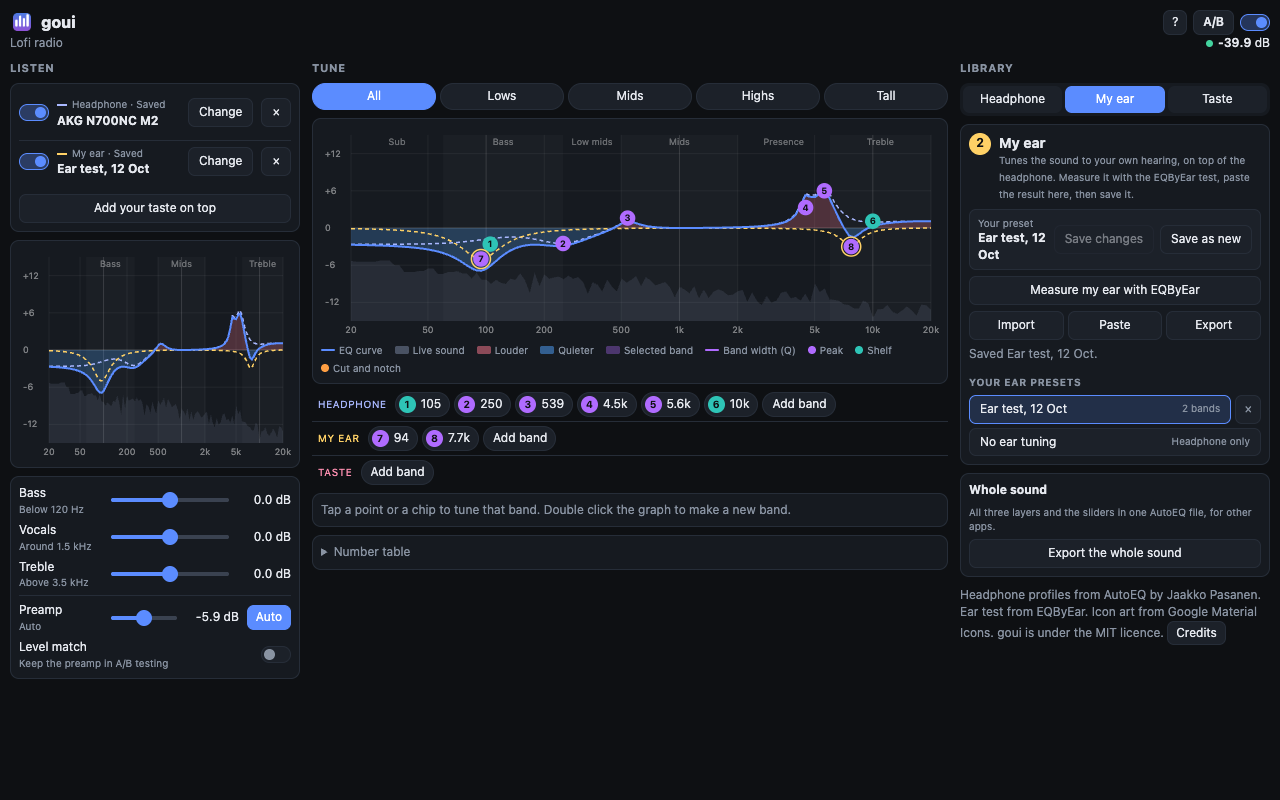
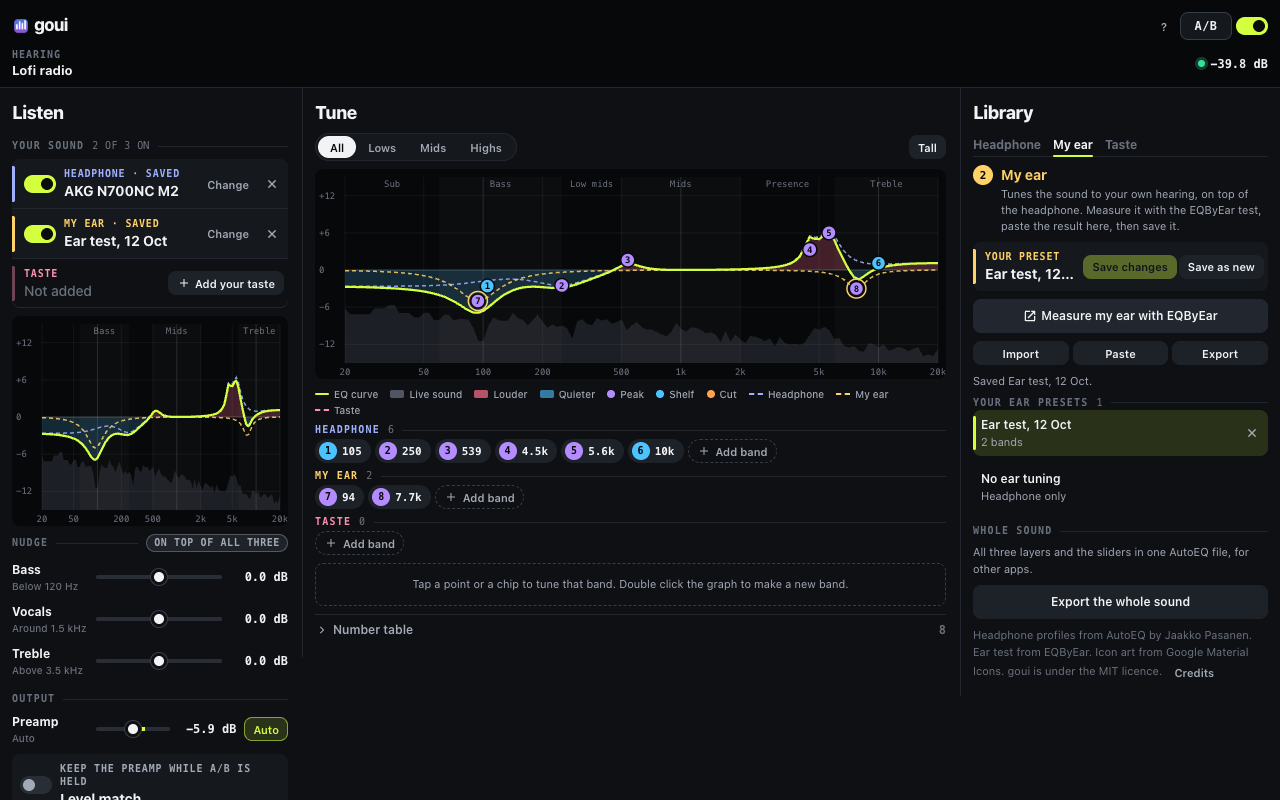
Finish the pictures and the landing page
The store tiles and the readme pictures read the new palette. The accent is acid, the
backgrounds are the ink steps, and the diagrams use the band and layer colours. The
Chrome greys stay where a picture draws Chrome itself, and the icon keeps its tile
until the rebrand.

The landing page shows the new panel. The design page now mounts each part only where
that part's markup is on the page, so the site builds the panel from its own host, with
no Sets, and copy-assets.mjs is a plain copy again.

The landing page hero, its install line and its short-window zoom were re-tuned for the
taller panel.

diff --git a/design/ux-proposals.js b/design/ux-proposals.js
@@ -787,7 +787,8 @@ const byId = (id) => document.getElementById(id);
 
 for (const host of document.querySelectorAll(".legend-host")) host.innerHTML = legendHtml("layers" in host.dataset);
 
-{
+// Each block of the record runs only on the design page, where its hosts are.
+if (byId("a-head")) {
   const model = makeModel(headphoneBands, "AKG N700NC M2");
   const libraryHost = byId("a-library");
   mountHeader(byId("a-head"), model);
@@ -806,7 +807,7 @@ for (const host of document.querySelectorAll(".legend-host")) host.innerHTML = l
   });
 }
 
-{
+if (byId("b-head")) {
   const model = makeModel(headphoneBands, "AKG N700NC M2");
   model.selected = 4;
   mountHeader(byId("b-head"), model);
@@ -820,7 +821,7 @@ for (const host of document.querySelectorAll(".legend-host")) host.innerHTML = l
   mountLibrary(byId("b-library"), model, closeSheet);
 }
 
-{
+if (byId("c-head")) {
   const model = makeModel(headphoneBands.map((band) => ({ ...band, layer: "headphone" })), "AKG N700NC M2");
   model.bands.push(...parseAutoEqText(earText, "ear"), ...parseAutoEqText(tasteText, "taste"));
   model.layers = {
@@ -851,7 +852,7 @@ for (const host of document.querySelectorAll(".legend-host")) host.innerHTML = l
   mountLibrarySections(byId("c-library"), model);
 }
 
-{
+if (byId("d-head")) {
   const model = makeModel(headphoneBands, "AKG N700NC M2");
   model.selected = 1;
   mountHeader(byId("d-head"), model);
@@ -863,7 +864,7 @@ for (const host of document.querySelectorAll(".legend-host")) host.innerHTML = l
   mountLibrary(byId("d-library"), model, closeSheet);
 }
 
-{
+if (byId("w-head")) {
   const model = makeModel(headphoneBands, "AKG N700NC M2");
   model.selected = 4;
   mountHeader(byId("w-head"), model);
@@ -919,7 +920,7 @@ function mountLayers(host, model, onChange) {
   });
 }
 
-{
+if (byId("e-head")) {
   const model = makeModel(headphoneBands, "AKG N700NC M2");
   const showTab = mountTabs("e-tabs", model);
   mountHeader(byId("e-head"), model);
@@ -939,7 +940,7 @@ function mountLayers(host, model, onChange) {
   byId("e-replace").addEventListener("click", () => merge(false));
 }
 
-{
+if (byId("f-head")) {
   const model = makeModel(headphoneBands.map((band) => ({ ...band, layer: "headphone" })), "AKG N700NC M2");
   model.bands.push(...parseAutoEqText(earText, "ear"), ...parseAutoEqText(tasteText, "taste"));
   model.layers = {
@@ -1159,7 +1160,7 @@ function mountMenuMock(host, model) {
   update();
 }
 
-{
+if (byId("g-head")) {
   const model = makeModel([], "Flat");
   model.sets = [
     { name: "HD 600 home", parts: { headphone: "Sennheiser HD 600", ear: "Ear test, 12 Oct", taste: "Warm and smooth" }, sliders: { bass: 1.5, vocals: 0, treble: -1 } },
@@ -1720,6 +1721,7 @@ function mountView(host, form, settings = {}) {
     isWholeOpen: false,
     isTableOpen: false,
     hasSetPicker: false,
+    hasSets: true,
     ...settings,
   };
 
@@ -2150,7 +2152,7 @@ const regionBuilders = {
   },
   inspector: buildInspector,
   table: buildTable,
-  "library-tabs": (view) => ui.tabs({ items: libraryTabItems, current: view.libraryTab, act: "library-tab", size: "small" }),
+  "library-tabs": (view) => ui.tabs({ items: view.hasSets ? libraryTabItems : libraryTabItems.slice(0, -1), current: view.libraryTab, act: "library-tab", size: "small" }),
   "library-head": (view) => {
     const role = readLibraryRole(view);
 
@@ -3369,8 +3371,7 @@ function wireGuide() {
   });
 }
 
-// The design page's own startup. The site copies this file for its panel demo, so this part runs
-// only where the page's hosts are.
+// The site copies this file for its panel demo, so each part of the startup runs only where its host is.
 if (byId("token-palette")) {
   accentColor = readToken("--accent");
   renderTokens();
@@ -3382,18 +3383,28 @@ if (byId("token-palette")) {
   renderMapping();
   renderGuide();
   wireGuide();
+}
 
-  mountView(byId("panel-narrow"), "narrow", { hasSetPicker: true });
-  mountView(byId("panel-start"), "start", { isHearing: false });
-  mountView(byId("header-tab"), "header");
-  mountView(byId("header-nothing"), "header", { isHearing: false });
-  mountView(byId("header-popup"), "header", { isPopup: true, heard: "YT Music", instruction: "goui is off for this window. Press ON to hear it again." });
-  mountView(byId("panel-wide"), "wide", { heard: "Every sound on this Mac", libraryTab: "sets" });
-  mountView(byId("sets-picker"), "setsPicker", { hasSetPicker: true });
-  mountView(byId("sets-library"), "setsLibrary", { libraryTab: "sets" });
-  mountView(byId("screen-menu"), "menu");
-  mountView(byId("screen-tile"), "tile");
-  mountView(byId("screen-site"), "hero", { heard: "Every sound on this Mac" });
+// The last host is the site's demo, with no Sets while Sets is not built.
+const viewHosts = [
+  ["panel-narrow", "narrow", { hasSetPicker: true }],
+  ["panel-start", "start", { isHearing: false }],
+  ["header-tab", "header"],
+  ["header-nothing", "header", { isHearing: false }],
+  ["header-popup", "header", { isPopup: true, heard: "YT Music", instruction: "goui is off for this window. Press ON to hear it again." }],
+  ["panel-wide", "wide", { heard: "Every sound on this Mac", libraryTab: "sets" }],
+  ["sets-picker", "setsPicker", { hasSetPicker: true }],
+  ["sets-library", "setsLibrary", { libraryTab: "sets" }],
+  ["screen-menu", "menu"],
+  ["screen-tile", "tile"],
+  ["screen-site", "hero", { heard: "Every sound on this Mac" }],
+  ["site-panel", "narrow", { hasSets: false }],
+];
+
+for (const [id, form, settings] of viewHosts) {
+  const host = byId(id);
+
+  if (host) mountView(host, form, settings);
 }
 
 function updateLevels() {

diff --git a/site/public/index.html b/site/public/index.html
@@ -15,6 +15,20 @@
     <title>goui</title>
   </head>
   <body>
+    <svg width="0" height="0" style="position: absolute" aria-hidden="true">
+      <symbol id="icon-plus" viewBox="0 0 24 24"><path d="M19 13h-6v6h-2v-6H5v-2h6V5h2v6h6v2z" /></symbol>
+      <symbol id="icon-minus" viewBox="0 0 24 24"><path d="M19 13H5v-2h14v2z" /></symbol>
+      <symbol id="icon-close" viewBox="0 0 24 24"><path d="M19 6.41 17.59 5 12 10.59 6.41 5 5 6.41 10.59 12 5 17.59 6.41 19 12 13.41 17.59 19 19 17.59 13.41 12z" /></symbol>
+      <symbol id="icon-chevron" viewBox="0 0 24 24"><path d="M16.59 8.59 12 13.17 7.41 8.59 6 10l6 6 6-6z" /></symbol>
+      <symbol id="icon-next" viewBox="0 0 24 24"><path d="M10 6 8.59 7.41 13.17 12l-4.58 4.59L10 18l6-6z" /></symbol>
+      <symbol id="icon-check" viewBox="0 0 24 24"><path d="M9 16.17 4.83 12l-1.42 1.41L9 19 21 7l-1.41-1.41z" /></symbol>
+      <symbol id="icon-search" viewBox="0 0 24 24"><path d="M15.5 14h-.79l-.28-.27A6.47 6.47 0 0 0 16 9.5 6.5 6.5 0 1 0 9.5 16c1.61 0 3.09-.59 4.23-1.57l.27.28v.79l5 4.99L20.49 19l-4.99-5zm-6 0C7.01 14 5 11.99 5 9.5S7.01 5 9.5 5 14 7.01 14 9.5 11.99 14 9.5 14z" /></symbol>
+      <symbol id="icon-external" viewBox="0 0 24 24"><path d="M19 19H5V5h7V3H5a2 2 0 0 0-2 2v14a2 2 0 0 0 2 2h14c1.1 0 2-.9 2-2v-7h-2v7zM14 3v2h3.59l-9.83 9.83 1.41 1.41L19 6.41V10h2V3h-7z" /></symbol>
+      <symbol id="icon-power" viewBox="0 0 24 24"><path d="M13 3h-2v10h2V3zm4.83 2.17-1.42 1.42C17.99 7.86 19 9.81 19 12c0 3.87-3.13 7-7 7s-7-3.13-7-7c0-2.19 1.01-4.14 2.58-5.42L6.17 5.17C4.23 6.82 3 9.26 3 12c0 4.97 4.03 9 9 9s9-4.03 9-9c0-2.74-1.23-5.18-3.17-6.83z" /></symbol>
+      <symbol id="icon-puzzle" viewBox="0 0 24 24"><path d="M20.5 11H19V7c0-1.1-.9-2-2-2h-4V3.5C13 2.12 11.88 1 10.5 1S8 2.12 8 3.5V5H4c-1.1 0-2 .9-2 2v3.8h1.5c1.49 0 2.7 1.21 2.7 2.7S4.99 16.2 3.5 16.2H2V20c0 1.1.9 2 2 2h3.8v-1.5c0-1.49 1.21-2.7 2.7-2.7s2.7 1.21 2.7 2.7V22H17c1.1 0 2-.9 2-2v-4h1.5c1.38 0 2.5-1.12 2.5-2.5S21.88 11 20.5 11z" /></symbol>
+      <symbol id="icon-pin" viewBox="0 0 24 24"><path d="M16 9V4h1c.55 0 1-.45 1-1s-.45-1-1-1H7c-.55 0-1 .45-1 1s.45 1 1 1h1v5c0 1.66-1.34 3-3 3v2h6v7l1 1 1-1v-7h6v-2c-1.66 0-3-1.34-3-3z" /></symbol>
+      <symbol id="icon-speaker" viewBox="0 0 24 24"><path d="M3 9v6h4l5 5V4L7 9H3zm13.5 3c0-1.77-1.02-3.29-2.5-4.03v8.05c1.48-.73 2.5-2.25 2.5-4.02zM14 3.23v2.06c2.89.86 5 3.54 5 6.71s-2.11 5.85-5 6.71v2.06c4.01-.91 7-4.49 7-8.77s-2.99-7.86-7-8.77z" /></symbol>
+    </svg>
     <main>
       <header class="site-head">
         <img src="/icons/icon128.png" alt="" width="44" height="44" />
@@ -57,47 +71,8 @@
           </p>
         </div>
 
-        <div class="demo record" id="try">
-          <div class="frame">
-            <div id="f-head"></div>
-            <div class="tabs" id="f-tabs">
-              <button data-tab="listen" class="on">Listen</button>
-              <button data-tab="tune">Tune</button>
-              <button data-tab="library">Library</button>
-            </div>
-            <div class="pane" data-pane="listen">
-              <div class="card" id="f-layers"></div>
-              <div class="card">
-                <div id="f-listen-graph"></div>
-                <div class="legend-host" data-layers></div>
-              </div>
-              <div class="card" id="f-macros"></div>
-            </div>
-            <div class="pane" data-pane="tune" hidden>
-              <div id="f-zoom"></div>
-              <div class="card">
-                <div id="f-graph"></div>
-                <div class="legend-host" data-layers></div>
-              </div>
-              <div id="f-chips"></div>
-              <div class="card" id="f-inspector"></div>
-            </div>
-            <div class="pane" data-pane="library" hidden>
-              <div class="card">
-                <div class="library-actions">
-                  <button>Save</button><button>Import</button><button class="on">Paste</button
-                  ><button>Export</button>
-                </div>
-                <div class="target" id="f-target"></div>
-                <textarea id="f-text" spellcheck="false"></textarea>
-                <div class="button-row"><button id="f-apply" class="primary">Apply</button></div>
-                <p class="hint">
-                  A pick from the search goes into the layer chosen above. A headphone pick goes into
-                  the headphone layer unless you choose My ear.
-                </p>
-              </div>
-            </div>
-          </div>
+        <div class="demo" id="try">
+          <div class="pn-frame" id="site-panel"></div>
           <p class="demo-caption">
             The real panel. Drag a point, or hold A/B. The spectrum is a stand-in.
           </p>

diff --git a/site/public/styles.css b/site/public/styles.css
@@ -71,19 +71,14 @@ a.name {
   border-radius: var(--radius-3);
 }
 
-/* The layer rows already name both dashed lines, so the Listen legend goes and the panel fits a laptop screen. */
-.demo [data-pane="listen"] .legend-host {
-  display: none;
-}
-
 /* A short window, such as a laptop with the page zoomed, shows the whole panel and its caption. */
-@media (max-height: 820px) and (min-width: 760px) {
+@media (max-height: 1020px) and (min-width: 981px) {
   .demo {
     zoom: 0.88;
   }
 }
 
-@media (max-height: 740px) and (min-width: 760px) {
+@media (max-height: 918px) and (min-width: 981px) {
   .demo {
     zoom: 0.78;
   }
@@ -216,15 +211,10 @@ a.name {
   min-width: 0;
 }
 
-.demo .frame {
+.demo .pn-frame {
   max-width: 100%;
+  border-color: var(--line-2);
   box-shadow: 0 40px 80px -40px var(--accent-line);
-}
-
-/* The mock panel puts white on the accent. The tokens put the accent ink there. */
-.demo button.on,
-.demo button.primary {
-  color: var(--accent-ink);
 }
 
 .demo-caption {

diff --git a/site/README.md b/site/README.md
@@ -9,8 +9,9 @@ The site shows the icons, two README pictures and the live panel mock from `desi
 assets` copies them into `public/`, and every dev and deploy command runs it first. The copies stay
 out of git, so the site always matches the repo.
 
-The panel mock is `design/ux-proposals.js` with one change. Each design block runs only when its own
-markup is on the page, so the homepage shows design F alone.
+The panel mock is `design/ux-proposals.js` as it is. It mounts each part only where that part's
+markup is on the page, so the homepage builds the panel from `#site-panel` and nothing else. The
+homepage asks for the narrow panel with no Sets, since Sets is not built yet.
 
 ## Develop
 
